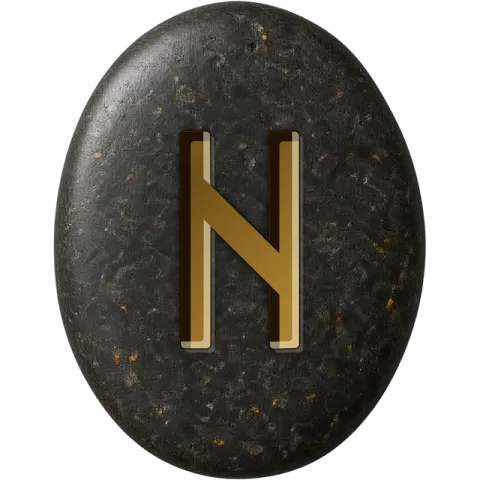
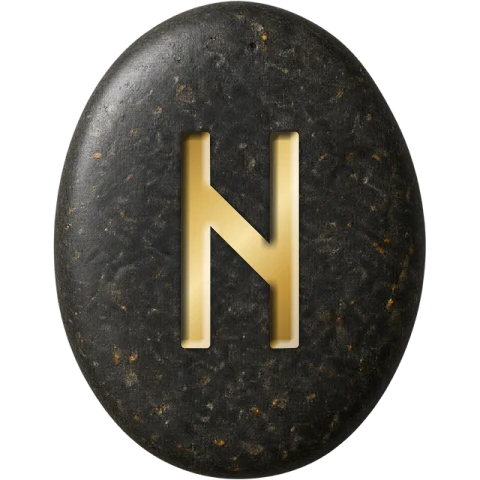
Site: carve the runes without breaks at the joins
The groove's walls were the glyph minus a shifted copy of itself, which left
hard steps where strokes meet (Algiz's fork, Perthro's foot). The cut is now
a height field (the mask blurred), each pixel shaded by its slope toward the
light, so walls blend where strokes join. All guide and landing stones re-carved.

Claude-Session: https://claude.ai/code/session_01TyNZcB4dmfjkakMr8btNwp

Changed region(s): [[0.375, 0.25, 0.6562, 0.75]]

diff --git a/CLAUDE.md b/CLAUDE.md
@@ -93,6 +93,11 @@ Kullanıcı isteği: uygulamadaki Rune Rehberi sitede de olsun, SSS rehberdeki b
 - **Taşlar:** 24 rune uygulamanın rehberdeki bazalt taşına (`stone-fire.webp`, yüz 0,62) `scripts/carve.mjs` ile
   kazındı, `src/assets/guide/<rune>.webp`. Yeniden üretim: `node --experimental-strip-types scripts/carve.mjs ../askrune`
   (Node 24'te bayrak gerekmez).
+  **Kazıma 2026-10-07'de yeniden yazıldı** (kullanıcı, telefonda: "rune'larda kırıklar, deformasyonlar var"): oyuk
+  duvarları glifin kaydırılmış kopyası çıkarılarak çiziliyordu; kolların birleştiği iç köşelerde (Algiz'in çatalı,
+  Perthro'nun ayağı) sert basamaklar bırakıyordu. Şimdi oyuk bir yükseklik haritası (maske bulanıklaştırılır), her piksel
+  o haritanın ışığa (sol üst) doğru eğimiyle gölgelenir; birleşimler yumuşak. Not: sharp'ın `blur`'u tek kanallı ham
+  girdiden 3 kanal döndürür, `extractChannel(0)` şart.
 - Rune sayfasında Düz/Ters JavaScript'siz (radyo düğmeleri + CSS); iki okuma da sayfada olduğu için arama motoru görür.
 - Üst çubuk (`SiteHeader`, logo ana sayfaya, "Rune Rehberi", dil düğmesi aynı sayfanın öbür diline) ve alt bilgi
   (`SiteFooter`) ana sayfa ve rehberde ortak. `Base` artık `alternates` (hreflang) ve `jsonLd` alır.
